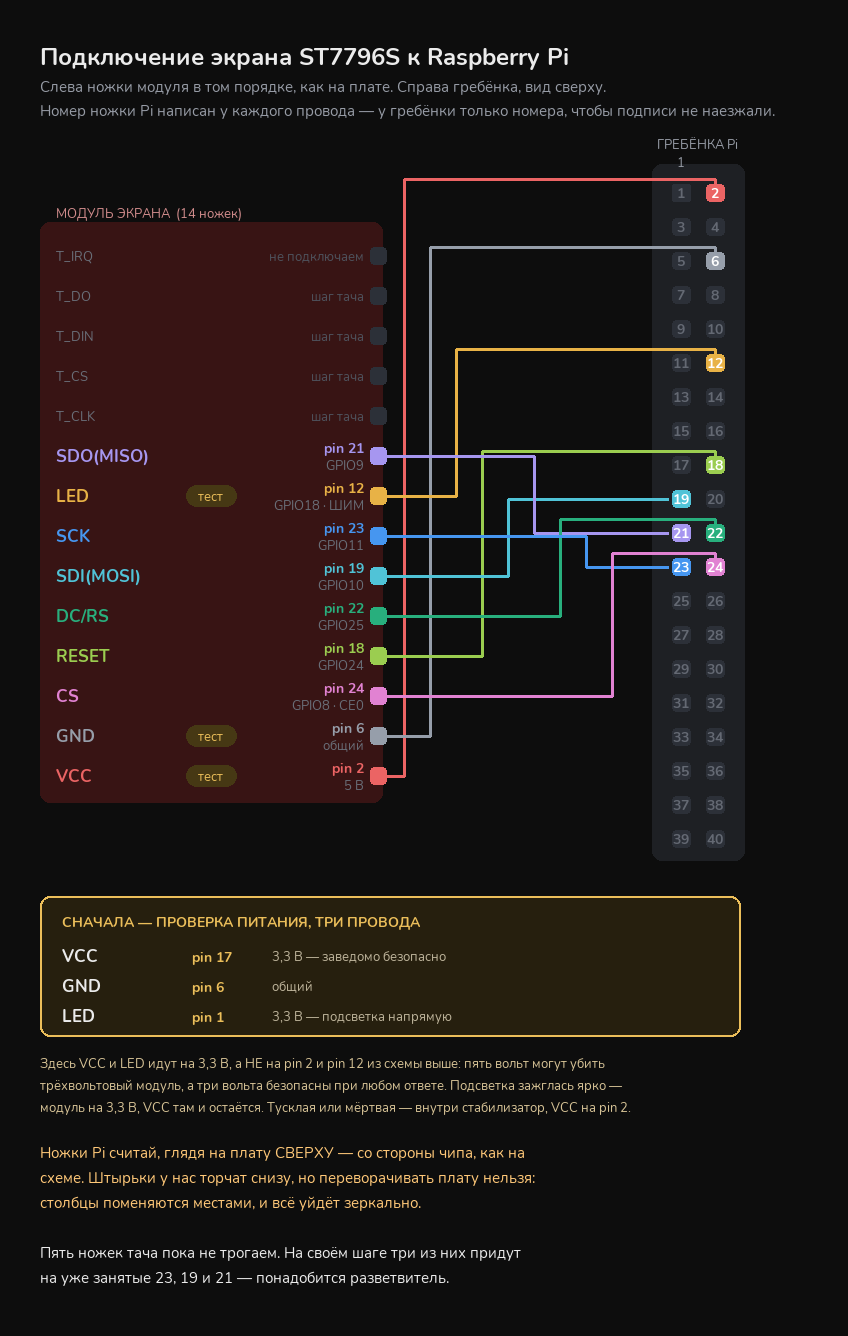
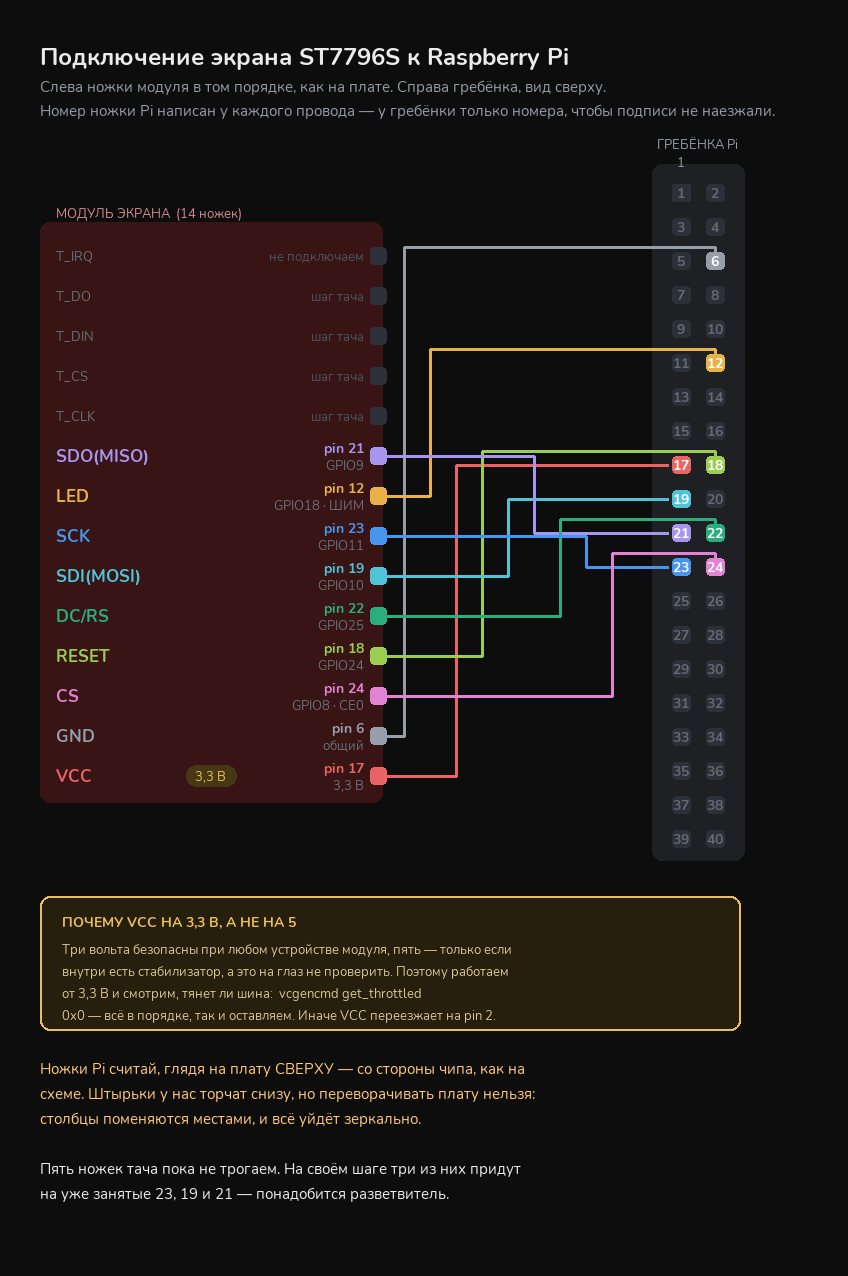
Схема показывает VCC на 3,3 В — как и решено на деле
На картинке VCC шёл на pin 2, а по итогам проверки питания мы работаем
от 3,3 В. Схема, расходящаяся с указанием, — это готовая ошибка в
проводке: рисунок убедительнее текста, и рука потянется к тому pin, что
нарисован.

Блок внизу вместо описания уже пройденной проверки объясняет сам выбор
напряжения и называет условие, при котором VCC переезжает на pin 2.

diff --git a/pi/tools/render_display_wiring.py b/pi/tools/render_display_wiring.py
@@ -43,23 +43,28 @@ MODULE = [
     ("T_CS",      None, "шаг тача",        None,            False),
     ("T_CLK",     None, "шаг тача",        None,            False),
     ("SDO(MISO)", 21,   "GPIO9",           (166, 150, 240), False),
-    ("LED",       12,   "GPIO18 · ШИМ",    (232, 178, 70),  True),
+    ("LED",       12,   "GPIO18 · ШИМ",    (232, 178, 70),  False),
     ("SCK",       23,   "GPIO11",          (70, 150, 240),  False),
     ("SDI(MOSI)", 19,   "GPIO10",          (80, 195, 215),  False),
     ("DC/RS",     22,   "GPIO25",          (40, 175, 125),  False),
     ("RESET",     18,   "GPIO24",          (155, 205, 80),  False),
     ("CS",        24,   "GPIO8 · CE0",     (225, 130, 210), False),
-    ("GND",       6,    "общий",           (150, 158, 170), True),
-    ("VCC",       2,    "5 В",             (235, 100, 100), True),
+    ("GND",       6,    "общий",           (150, 158, 170), False),
+    ("VCC",       17,   "3,3 В",           (235, 100, 100), True),
 ]
 
-# Проверка питания. Ножки НЕ те же, что в основной схеме: VCC и LED уходят
-# на 3,3 В, потому что пять вольт могут оказаться смертельными для модуля,
-# а три вольта безопасны при любом ответе.
-TEST_WIRES = (
-    ("VCC", 17, "3,3 В — заведомо безопасно"),
-    ("GND", 6, "общий"),
-    ("LED", 1, "3,3 В — подсветка напрямую"),
+# Почему 3,3, а не 5. Какое напряжение нужно модулю, на глаз не определить:
+# при входных 3,3 В внутренний стабилизатор, если он там есть, отдаёт
+# 3,0-3,2 и подсветка тускнеет незаметно. Поэтому берём заведомо безопасные
+# три вольта, а достаточно ли их — спрашиваем у самого Pi.
+VCC_NOTE = (
+    "ПОЧЕМУ VCC НА 3,3 В, А НЕ НА 5",
+    (
+        "Три вольта безопасны при любом устройстве модуля, пять — только если",
+        "внутри есть стабилизатор, а это на глаз не проверить. Поэтому работаем",
+        "от 3,3 В и смотрим, тянет ли шина:  vcgencmd get_throttled",
+        "0x0 — всё в порядке, так и оставляем. Иначе VCC переезжает на pin 2.",
+    ),
 )
 
 NOTES = (
@@ -93,7 +98,7 @@ def main() -> None:
     top = PAD + 136   # запас под две строки подзаголовка и подписи над колонками
     mod_h, pi_h = len(MODULE) * MOD_ROW, 20 * PI_ROW
     body = max(mod_h, pi_h)
-    height = top + body + 290 + len(NOTES) * 25 + PAD
+    height = top + body + 230 + len(NOTES) * 25 + PAD
 
     canvas = Image.new("RGB", (width, height), BG)
     d = ImageDraw.Draw(canvas)
@@ -127,7 +132,7 @@ def main() -> None:
             if in_test:
                 d.rounded_rectangle((PAD + 146, y - 11, PAD + 196, y + 10),
                                     radius=10, fill=(70, 56, 20))
-                d.text((PAD + 171, y), "тест", font=f_small, fill=TEST, anchor="mm")
+                d.text((PAD + 171, y), "3,3 В", font=f_small, fill=TEST, anchor="mm")
             d.text((mod_right - 6, y - 8), f"pin {pin}", font=f_dest, fill=c, anchor="rm")
             d.text((mod_right - 6, y + 9), dest, font=f_small, fill=DIM, anchor="rm")
         else:
@@ -176,31 +181,16 @@ def main() -> None:
             d.line([(pi_x[pin] + 9, gap), (pi_x[pin] + 9, y1 - 9)], fill=color, width=3)
 
     # ── сначала проверка питания ───────────────────────────────────────────
+    title, lines = VCC_NOTE
     by = top + body + 40
-    bh = 50 + len(TEST_WIRES) * 30
+    bh = 46 + len(lines) * 22
     d.rounded_rectangle((PAD, by, PAD + 700, by + bh), radius=10,
                         fill=(38, 31, 14), outline=TEST, width=2)
-    d.text((PAD + 22, by + 16), "СНАЧАЛА — ПРОВЕРКА ПИТАНИЯ, ТРИ ПРОВОДА",
-           font=f_dest, fill=TEST)
-    for i, (name, pin, why) in enumerate(TEST_WIRES):
-        y = by + 48 + i * 30
-        d.text((PAD + 22, y), name, font=f_name, fill=INK)
-        d.text((PAD + 152, y + 3), f"pin {pin}", font=f_dest, fill=TEST)
-        d.text((PAD + 232, y + 3), why, font=f_small, fill=(190, 180, 155))
+    d.text((PAD + 22, by + 16), title, font=f_dest, fill=TEST)
+    for i, line in enumerate(lines):
+        d.text((PAD + 22, by + 44 + i * 22), line, font=f_small, fill=(215, 195, 150))
 
-    explain = (
-        "Здесь VCC и LED идут на 3,3 В, а НЕ на pin 2 и pin 12 из схемы выше: "
-        "пять вольт могут убить",
-        "трёхвольтовый модуль, а три вольта безопасны при любом ответе. "
-        "Подсветка зажглась ярко —",
-        "модуль на 3,3 В, VCC там и остаётся. Тусклая или мёртвая — "
-        "внутри стабилизатор, VCC на pin 2.",
-    )
-    ey = by + bh + 18
-    for i, line in enumerate(explain):
-        d.text((PAD, ey + i * 22), line, font=f_small, fill=(215, 195, 150))
-
-    ny = ey + len(explain) * 22 + 22
+    ny = by + bh + 28
     for i, (note, color) in enumerate(NOTES):
         if note:
             d.text((PAD, ny + i * 25), note, font=f_sub, fill=color)
